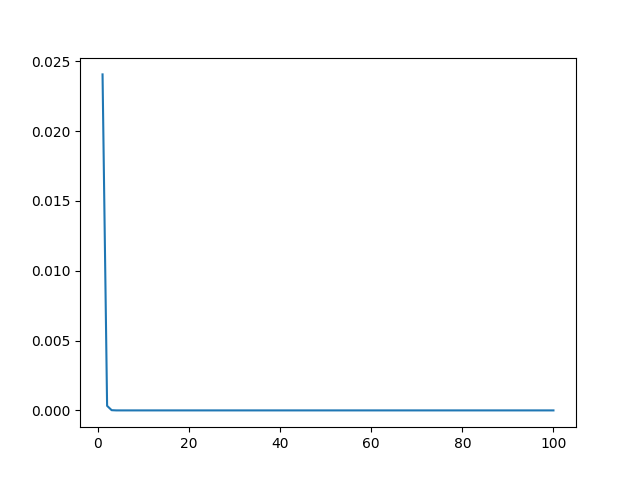
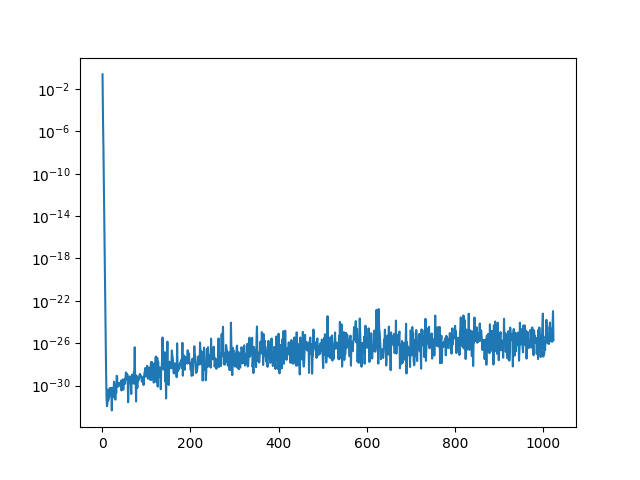
.

diff --git a/simulation.py b/simulation.py
@@ -3,17 +3,17 @@ from tools import *
 # SIMULATION PARAMETERS
 
 # Total time = time*dt
-time = 100000
+time = 10000
 dt = 1e-1
 
 #"Time checkpoints"
 tc = [0,1000,10000,100000,200000,400000,500000]
 
 #Size of the system / number of particles
-N = 100
+N = 1023
 
 # Potential parameters
-alpha = -5.0
+alpha = -1.0
 beta = 2.0
 pot_par = (alpha,beta)
 
@@ -23,7 +23,8 @@ pot_par = (alpha,beta)
 #We excite the first mode (n=1)
 #Stationary wave y = 2*A*sin(kx), k=2*pi/lambda, lambda=2*L/x, x/L = i/N
 v = np.zeros(N+2)
-x = np.array([1*np.sin(np.pi*i/(N+1)) for i in range(N+2)])
+A = 25
+x = np.array([A*np.sin(np.pi*i/(N+1)) for i in range(N+2)])
 
 #initial energy per mode
 #k = np.arange(N) + 1
@@ -38,6 +39,7 @@ for i in range(E.shape[0]):
     fig, ax = plt.subplots()
     print("E total at time {}: {}".format(tc[i],np.sum(E[i,:])))
     ax.plot(k,E[i,:]) #, linefmt=':', markerfmt='C0.')
+    ax.set_yscale('log')
     plt.savefig('./plots/energy_modes_{}.png'.format(tc[i]))
 
 # Calculate Ek for 1 <= k <= N
